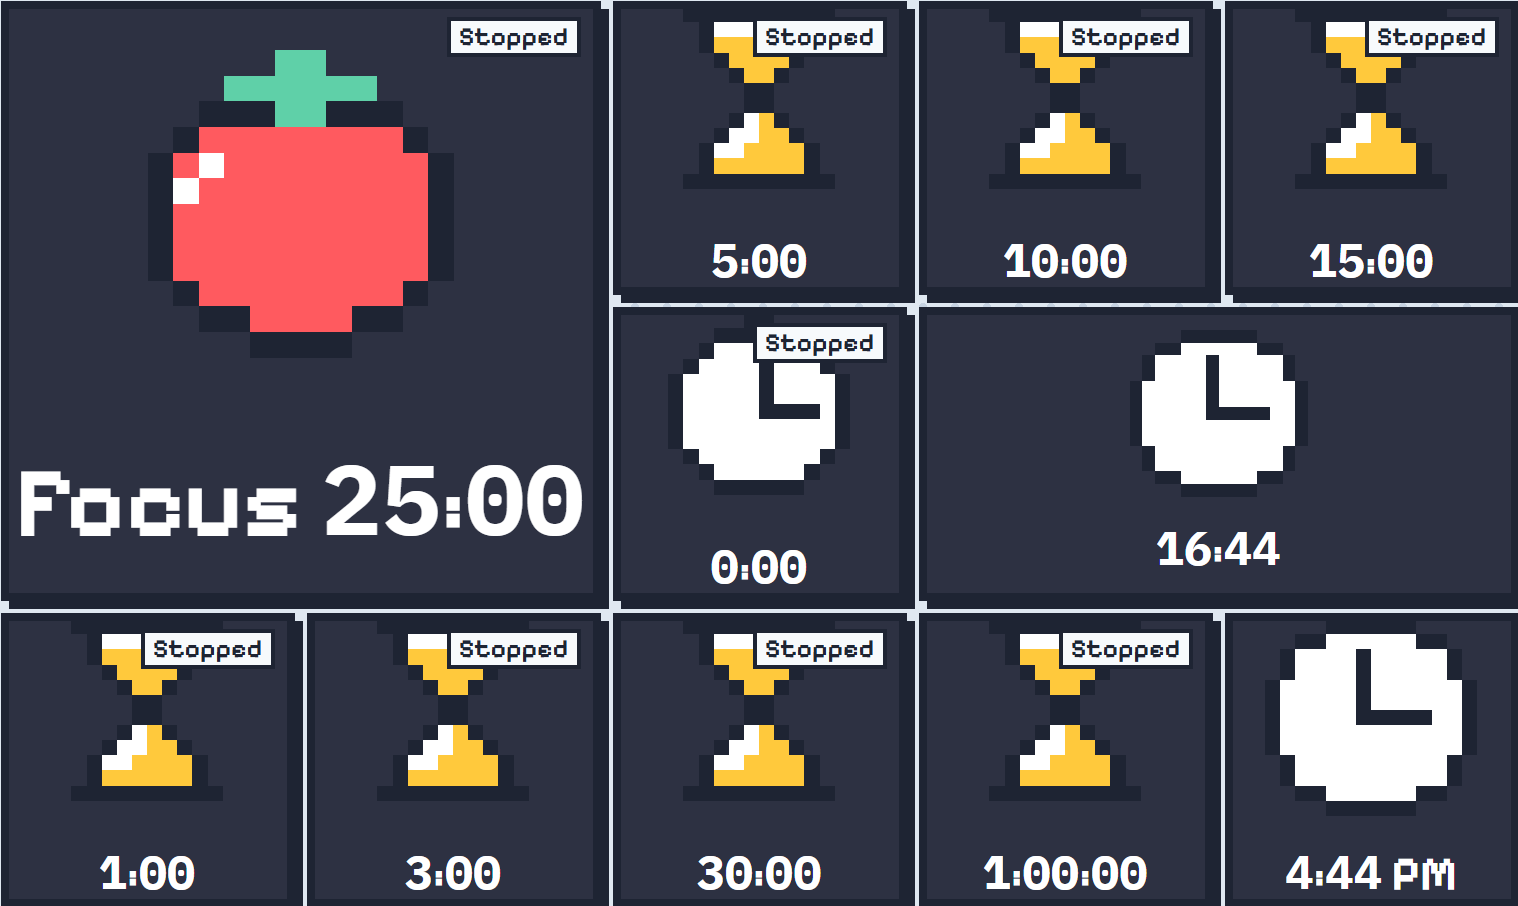
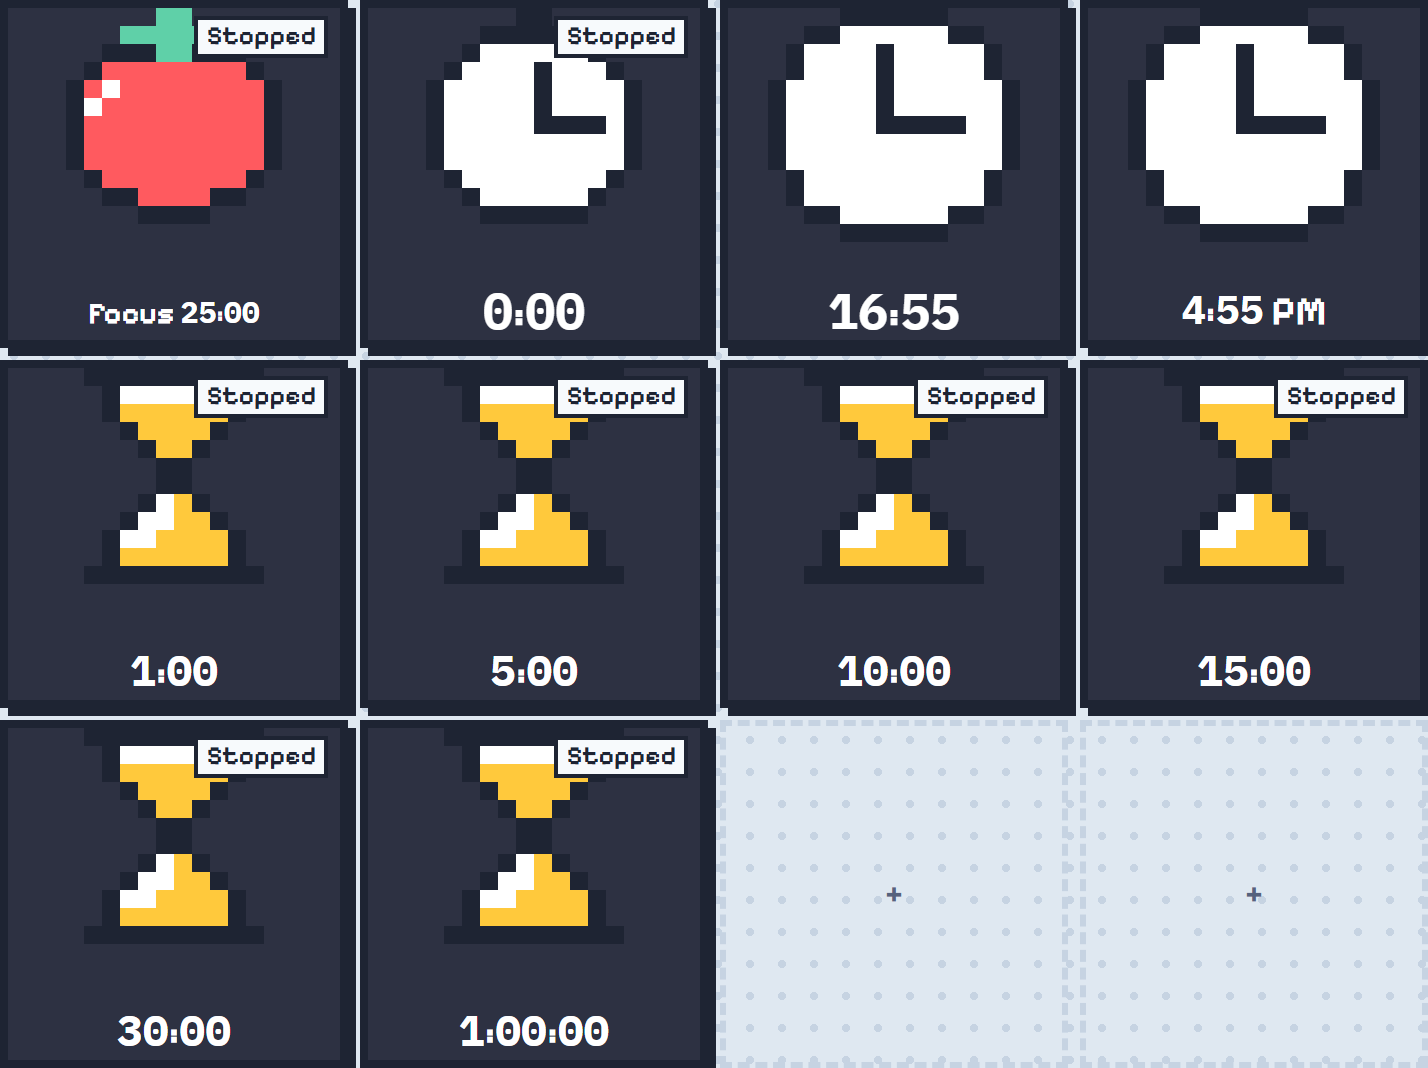
Marketplace: profiles with normal 1x1 buttons on smaller grids
The Timer, System Monitor and Weather screenshots now show their
profiles as laid out in the app: 1x1 buttons on a 4x3 or 3x3 grid,
with cells left empty. Card pictures fit whole, whatever the grid.

diff --git a/index.html b/index.html
@@ -268,8 +268,10 @@ section{display:flex;flex-direction:column;gap:24px}
 .plug h3{font-size:18px;display:flex;align-items:center;gap:8px;min-width:0}
 .plug h3 img{width:28px;height:28px;flex:none;border:3px solid var(--ink);background:var(--chrome);padding:2px}
 /* A plugin with a profile picture: the deck from the app, framed, in the card's top */
-.plug .shot.prev{aspect-ratio:5/3;padding:12px}
-.plug .shot.prev img.deck,.pd-shot img.deck{position:relative;display:block;width:100%;height:100%;object-fit:contain;border:3px solid var(--ink);box-shadow:3px 3px 0 var(--shadow);background:var(--chrome)}
+.plug .shot.prev{aspect-ratio:5/3}
+/* The whole deck fits whatever its grid (5 x 3, 4 x 3, 3 x 3); the shadow follows the picture */
+.plug .shot.prev img.deck{position:absolute;inset:12px;width:calc(100% - 24px);height:calc(100% - 24px);object-fit:contain;filter:drop-shadow(3px 3px 0 var(--shadow))}
+.pd-shot img.deck{position:relative;display:block;max-width:100%;max-height:420px;margin:0 auto;border:3px solid var(--ink);box-shadow:3px 3px 0 var(--shadow);background:var(--chrome)}
 .plug:hover .shot.prev img.deck{animation:hop .5s var(--step) both}
 .pd-shot.prev{padding:16px}
 .plug p{font-size:14px;color:var(--slate)}
